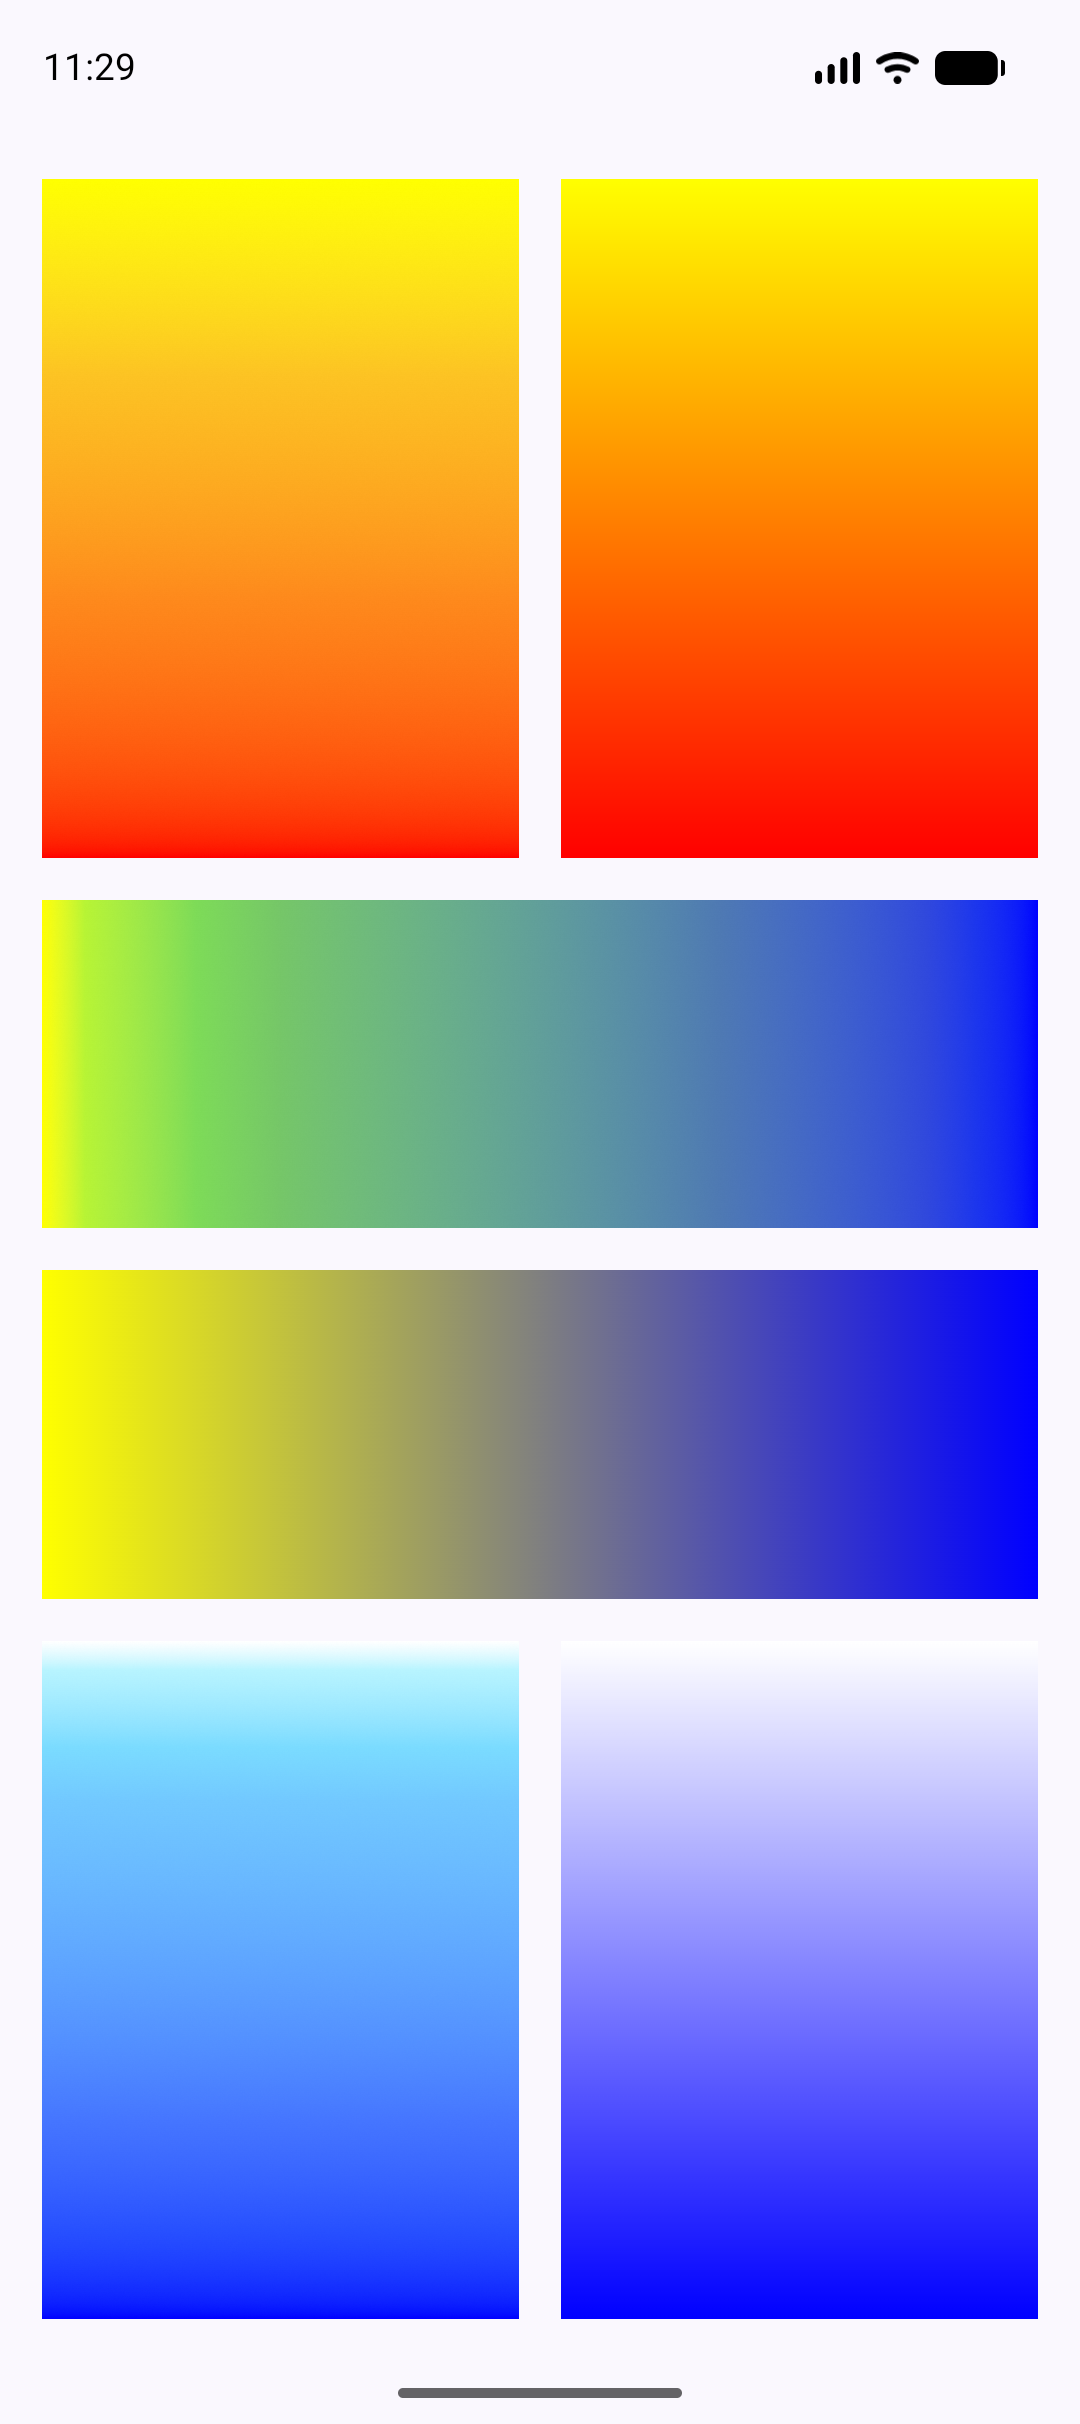
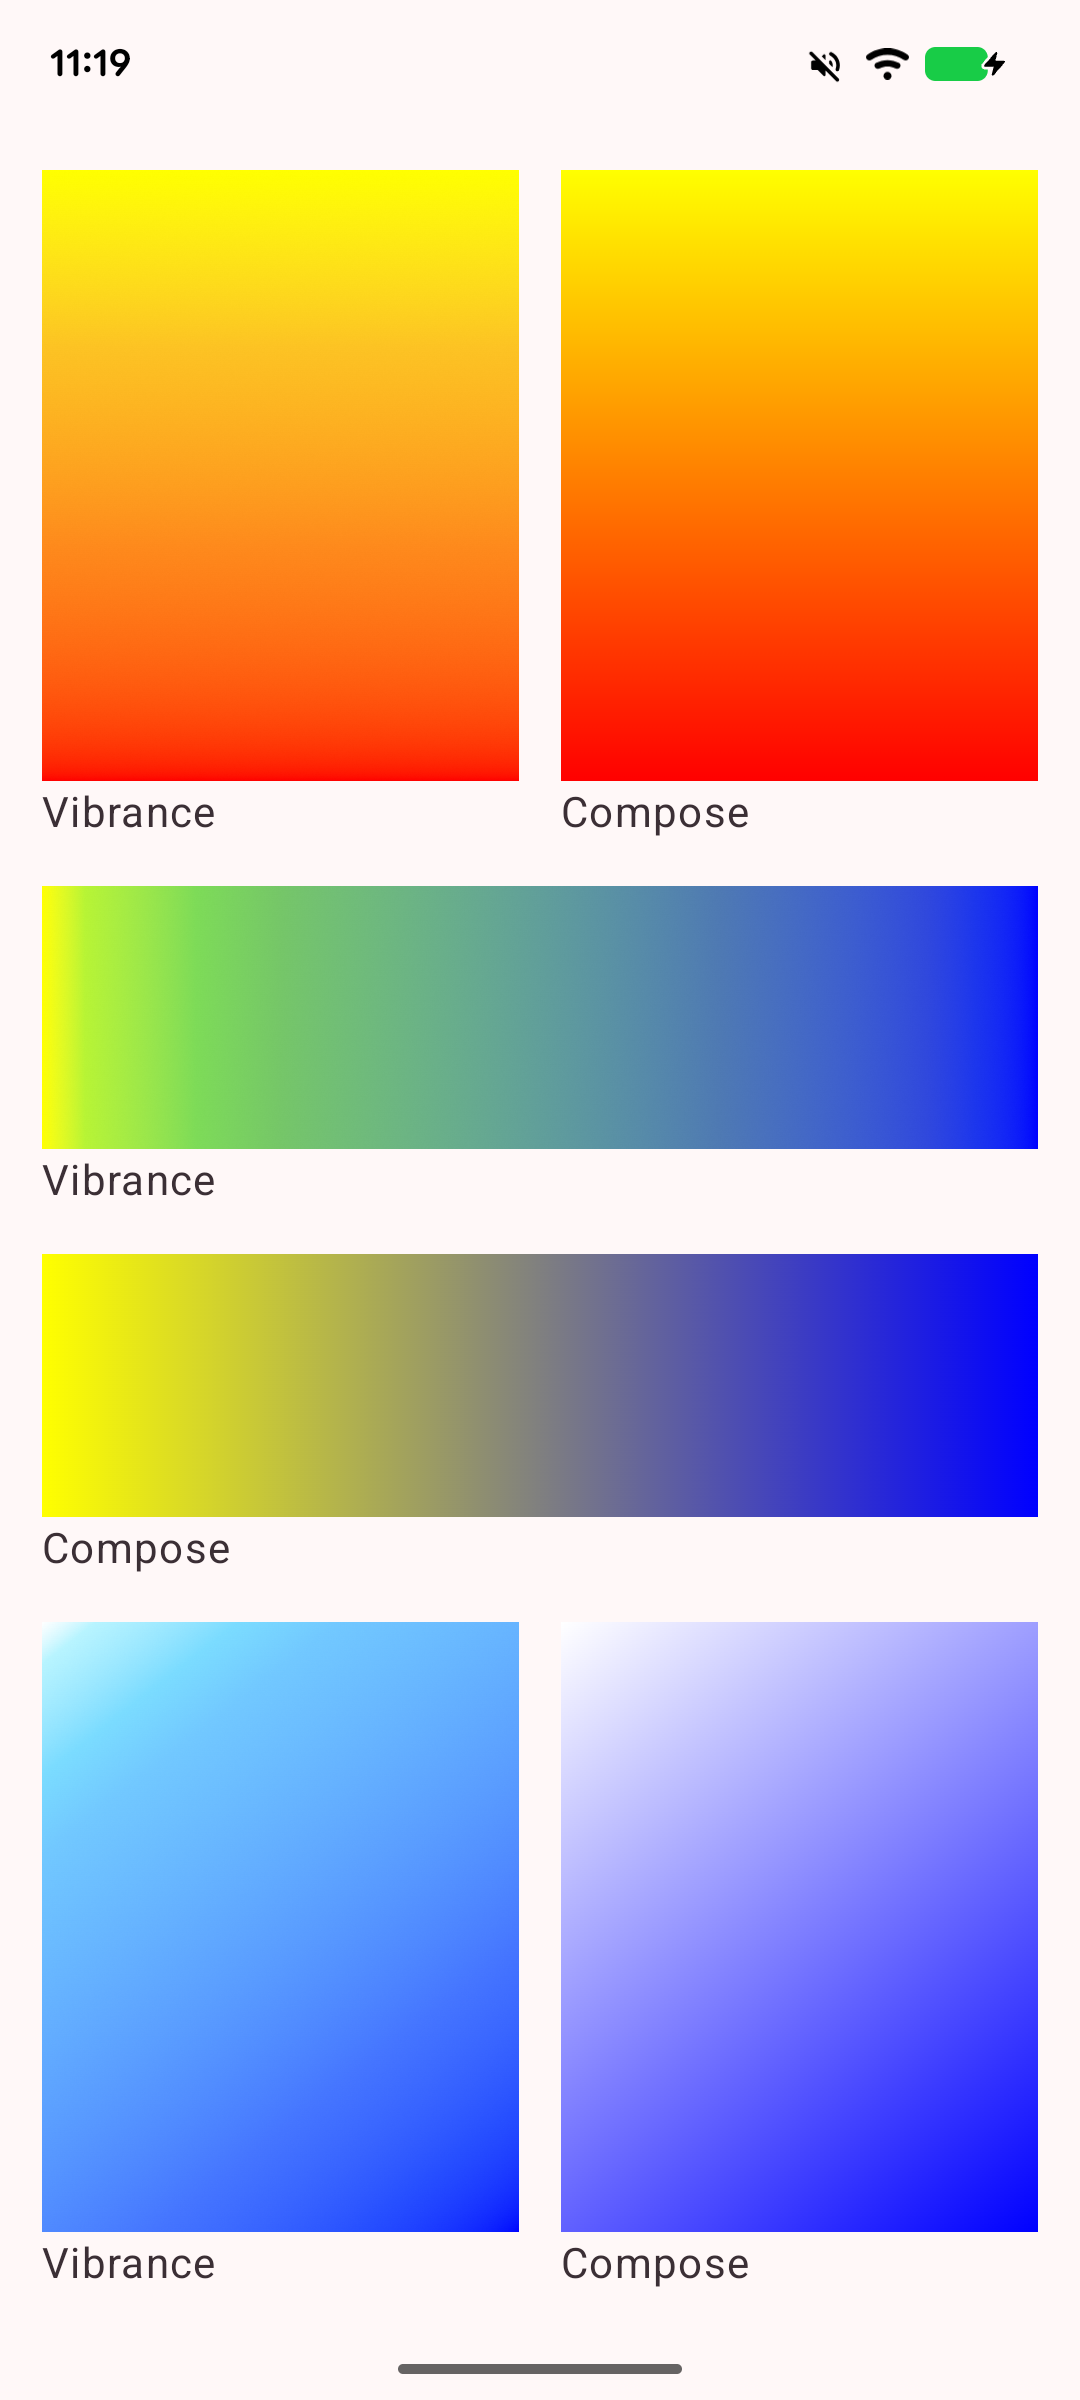
Update Compose demo

diff --git a/vibrance-compose-demo/src/main/java/dev/romainguy/vibrance/demo/VibranceActivity.kt b/vibrance-compose-demo/src/main/java/dev/romainguy/vibrance/demo/VibranceActivity.kt
@@ -1,5 +1,6 @@
 package dev.romainguy.vibrance.demo
 
+import android.annotation.SuppressLint
 import android.os.Bundle
 import androidx.activity.ComponentActivity
 import androidx.activity.compose.setContent
@@ -7,7 +8,9 @@ import androidx.activity.enableEdgeToEdge
 import androidx.compose.foundation.background
 import androidx.compose.foundation.layout.Box
 import androidx.compose.foundation.layout.Column
+import androidx.compose.foundation.layout.ColumnScope
 import androidx.compose.foundation.layout.Row
+import androidx.compose.foundation.layout.RowScope
 import androidx.compose.foundation.layout.Spacer
 import androidx.compose.foundation.layout.fillMaxHeight
 import androidx.compose.foundation.layout.fillMaxSize
@@ -16,6 +19,7 @@ import androidx.compose.foundation.layout.height
 import androidx.compose.foundation.layout.padding
 import androidx.compose.foundation.layout.width
 import androidx.compose.material3.Scaffold
+import androidx.compose.material3.Text
 import androidx.compose.runtime.Composable
 import androidx.compose.ui.Modifier
 import androidx.compose.ui.geometry.Offset
@@ -50,16 +54,11 @@ fun PaintMix(modifier: Modifier = Modifier) {
             .weight(1.0f)
             .padding(16.dp, 16.dp, 16.dp, 8.dp)
         ) {
-            Box(Modifier
-                .fillMaxHeight()
-                .weight(1.0f)
-                .verticalPaintGradient(Color.Yellow, Color.Red)
-            )
+            GradientPatch("Vibrance", Modifier.verticalPaintGradient(Color.Yellow, Color.Red))
             Spacer(Modifier.width(16.dp))
-            Box(Modifier
-                .fillMaxHeight()
-                .weight(1.0f)
-                .background(brush = Brush.verticalGradient(listOf(Color.Yellow, Color.Red)))
+            GradientPatch(
+                "Compose",
+                Modifier.background(Brush.verticalGradient(listOf(Color.Yellow, Color.Red)))
             )
         }
         // Yellow to Blue
@@ -68,16 +67,11 @@ fun PaintMix(modifier: Modifier = Modifier) {
             .weight(1.0f)
             .padding(16.dp, 8.dp, 16.dp, 8.dp)
         ) {
-            Box(Modifier
-                .fillMaxWidth()
-                .weight(1.0f)
-                .horizontalPaintGradient(Color.Yellow, Color.Blue)
-            )
+            GradientPatch("Vibrance", Modifier.horizontalPaintGradient(Color.Yellow, Color.Blue))
             Spacer(Modifier.height(16.dp))
-            Box(Modifier
-                .fillMaxWidth()
-                .weight(1.0f)
-                .background(brush = Brush.horizontalGradient(listOf(Color.Yellow, Color.Blue)))
+            GradientPatch(
+                "Compose",
+                Modifier.background(Brush.horizontalGradient(listOf(Color.Yellow, Color.Blue)))
             )
         }
         // White to Blue
@@ -86,16 +80,14 @@ fun PaintMix(modifier: Modifier = Modifier) {
             .weight(1.0f)
             .padding(16.dp, 8.dp, 16.dp, 16.dp)
         ) {
-            Box(Modifier
-                .fillMaxHeight()
-                .weight(1.0f)
-                .paintGradient(Offset.Zero, Color.White, Offset.Infinite, Color.Blue)
+            GradientPatch(
+                "Vibrance",
+                Modifier.paintGradient(Offset.Zero, Color.White, Offset.Infinite, Color.Blue)
             )
             Spacer(Modifier.width(16.dp))
-            Box(Modifier
-                .fillMaxHeight()
-                .weight(1.0f)
-                .background(
+            GradientPatch(
+                "Compose",
+                Modifier.background(
                     brush = Brush.linearGradient(
                         listOf(Color.White, Color.Blue),
                         start = Offset.Zero,
@@ -104,5 +96,37 @@ fun PaintMix(modifier: Modifier = Modifier) {
                 )
             )
         }
+    }
+}
+
+@Composable
+private fun RowScope.GradientPatch(
+    label: String,
+    @SuppressLint("ModifierParameter") gradientModifier: Modifier
+) {
+    Column(Modifier
+        .fillMaxHeight()
+        .weight(1.0f)) {
+        Box(Modifier
+            .fillMaxWidth()
+            .weight(1.0f) then gradientModifier
+        )
+        Text(label)
+    }
+}
+
+@Composable
+private fun ColumnScope.GradientPatch(
+    label: String,
+    @SuppressLint("ModifierParameter") gradientModifier: Modifier
+) {
+    Column(Modifier
+        .fillMaxWidth()
+        .weight(1.0f)) {
+        Box(Modifier
+            .fillMaxWidth()
+            .weight(1.0f) then gradientModifier
+        )
+        Text(label)
     }
 }
